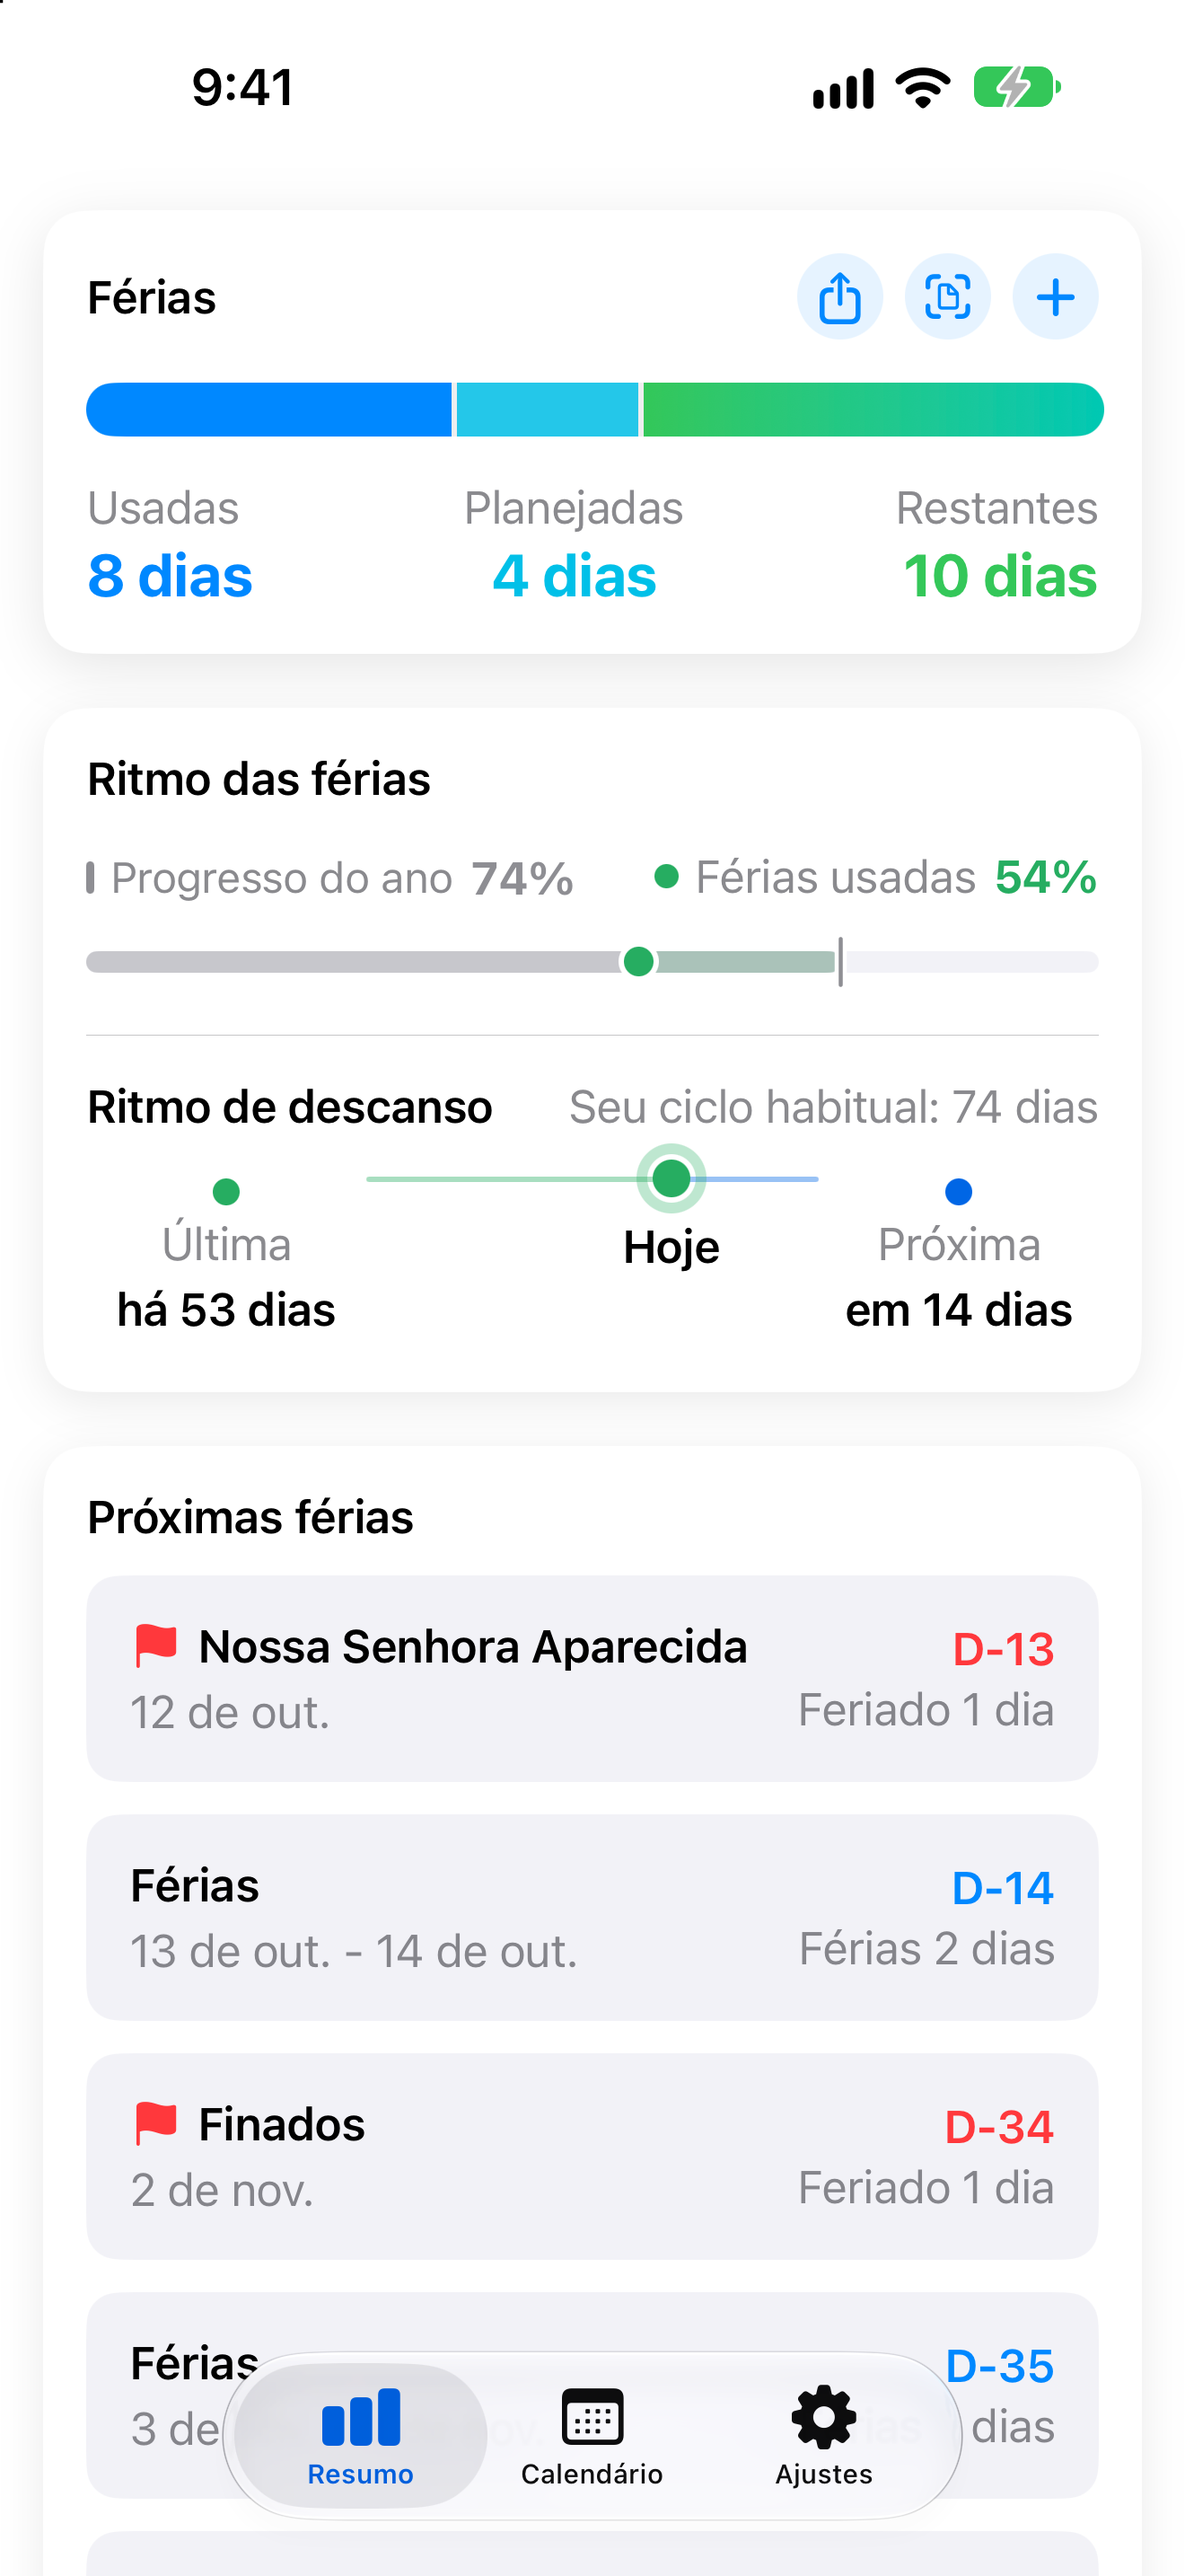
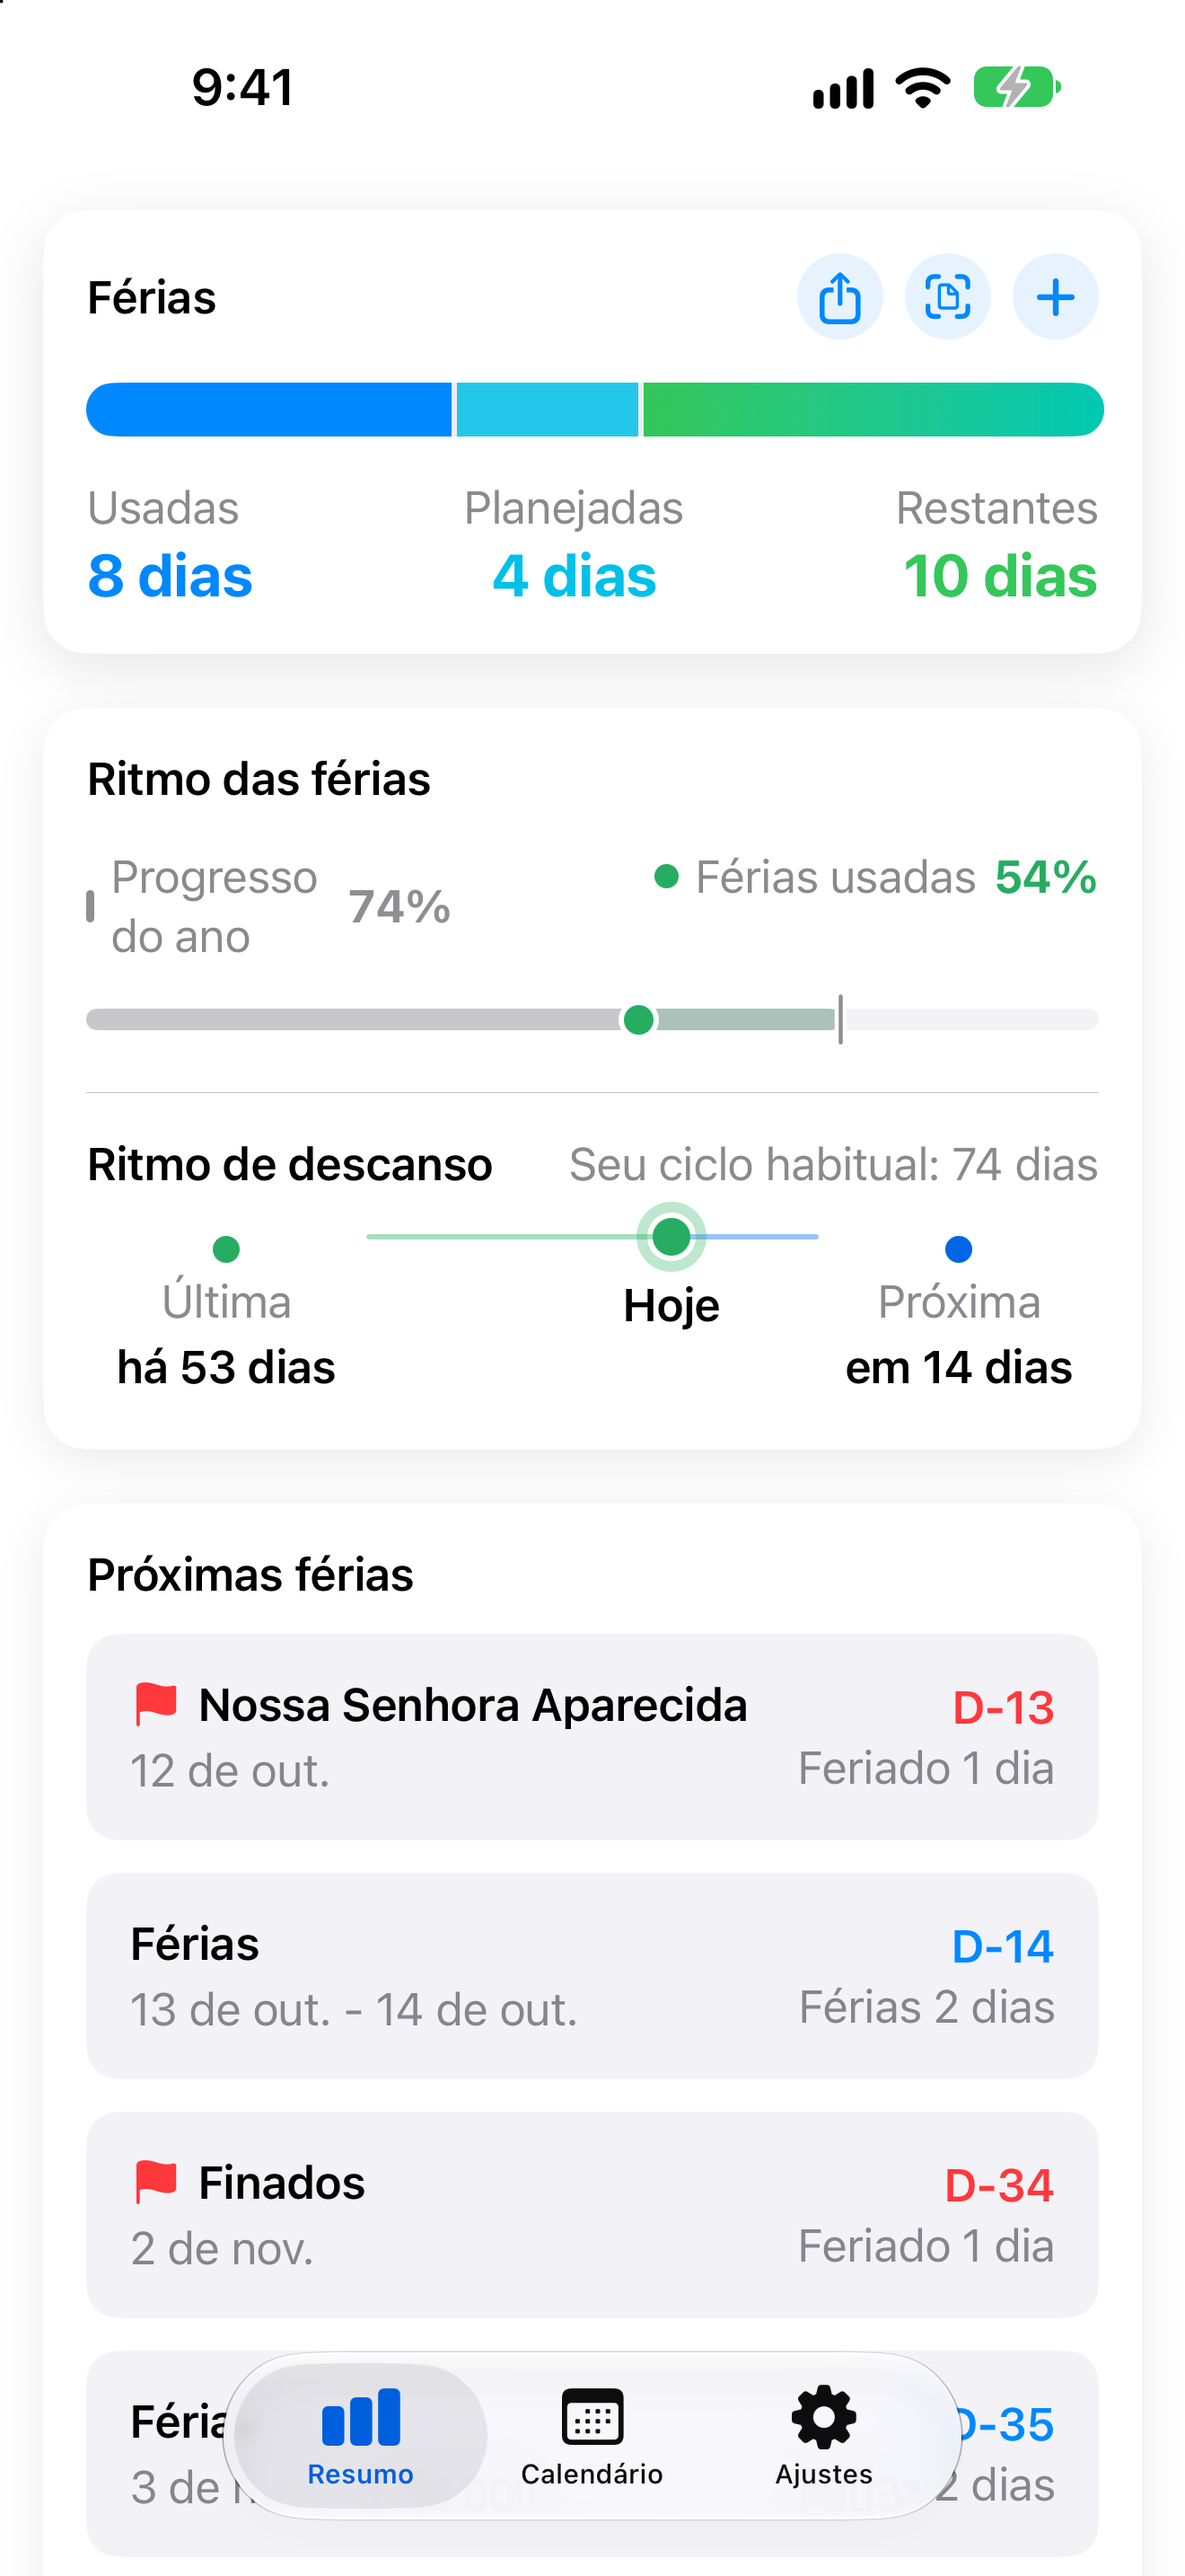
fix: 좁은 칸에서 글이 말줄임표(…)로 잘리지 않고 줄을 바꿔 다 보이게
긴 언어(스페인어·이탈리아어·독일어·프랑스어)에서 "Vacaciones us…"처럼 잘리던 곳.
한 줄 제한(lineLimit(1))·글자 축소를 걷어내고 세로로 늘어나게 했다.
- 홈: 연차 페이스 범례, 오늘 표시, 휴가 메모
- 캘린더·휴가 내역 메모, 추천 날짜·배지·월 그리드, 보너스 사유, 가져오기 후보 제목
스크린샷 10개 언어 다시 촬영.

diff --git a/Goldweek/Views/HomeView.swift b/Goldweek/Views/HomeView.swift
@@ -1104,7 +1104,7 @@ struct ShareableLeavePlanView: View {
                                 Text(leave.note)
                                     .font(.body)
                                     .foregroundStyle(secondaryText)
-                                    .lineLimit(1)
+                                    .fixedSize(horizontal: false, vertical: true)
                             }
                         }
                     }
@@ -1694,7 +1694,7 @@ struct BurnoutPaceCard: View {
     private var paceSection: some View {
         VStack(alignment: .leading, spacing: 10) {
             // 범례 — 라벨/값은 트랙에서 분리해 좌·우로 배치(겹침 방지)
-            HStack(alignment: .firstTextBaseline, spacing: 8) {
+            HStack(alignment: .top, spacing: 8) {
                 paceLegend(label: Strings.paceYearProgressLabel,
                            value: "\(Int(yearProgress * 100))%",
                            color: Color(.systemGray),
@@ -1755,16 +1755,17 @@ struct BurnoutPaceCard: View {
                     .fill(color)
                     .frame(width: 9, height: 9)
             }
+            // 칸이 좁으면 줄을 바꿔서라도 다 보여 준다 (말줄임표로 자르지 않는다)
             Text(label)
                 .font(.body)
                 .foregroundStyle(.secondary)
+                .fixedSize(horizontal: false, vertical: true)
             Text(value)
                 .font(.body.weight(.bold))
                 .foregroundStyle(color)
                 .monospacedDigit()
+                .fixedSize()
         }
-        .lineLimit(1)
-        .minimumScaleFactor(0.7)
     }
 
     /// '지금'을 가리키는 세로선 — 트랙을 가로지르는 재생 헤드 느낌
@@ -1827,8 +1828,8 @@ struct BurnoutPaceCard: View {
             Text(Strings.burnoutToday)
                 .font(.body.weight(.semibold))
                 .foregroundStyle(.primary)
-                .lineLimit(1)
-                .minimumScaleFactor(0.6)
+                .multilineTextAlignment(.center)
+                .fixedSize(horizontal: false, vertical: true)
         }
     }
 
@@ -1912,9 +1913,8 @@ struct BurnoutPaceCard: View {
             Text(value)
                 .font(.body.weight(.semibold))
                 .foregroundStyle(hasData ? .primary : .secondary)
-                .lineLimit(2)
                 .multilineTextAlignment(.center)
-                .minimumScaleFactor(0.8)
+                .fixedSize(horizontal: false, vertical: true)
         }
         .frame(maxWidth: .infinity)
     }

diff --git a/Goldweek/Views/RecommendationsView.swift b/Goldweek/Views/RecommendationsView.swift
@@ -935,8 +935,8 @@ struct MonthPreviewCell: View {
                 .font(.body)
                 .fontWeight(.medium)
                 .foregroundStyle(isPastMonth ? .secondary : .primary)
-                .lineLimit(1)
-                .minimumScaleFactor(0.7)   // 6열 그리드라 칸이 좁다 — 넘칠 때만 줄어든다
+                .multilineTextAlignment(.center)
+                .fixedSize(horizontal: false, vertical: true)   // 6열 그리드라 칸이 좁다 — 넘치면 줄을 바꾼다
 
             ZStack {
                 RoundedRectangle(cornerRadius: 6)
@@ -963,8 +963,8 @@ struct MonthPreviewCell: View {
                 Text(Strings.itemCountUnit(recommendations.count))
                     .font(.body)
                     .foregroundStyle(.blue)
-                    .lineLimit(1)
-                    .minimumScaleFactor(0.7)
+                    .multilineTextAlignment(.center)
+                    .fixedSize(horizontal: false, vertical: true)
             } else {
                 Text(" ")
                     .font(.body)
@@ -1702,7 +1702,7 @@ struct MRTFlightCard: View {
                 Text(dateText)
                     .font(.body)
                     .foregroundStyle(.secondary)
-                    .lineLimit(1)
+                    .fixedSize(horizontal: false, vertical: true)
 
                 // 항공사 + 직항 여부 + 가장 저렴 (이유 라벨)
                 HStack(spacing: 6) {
@@ -2083,8 +2083,7 @@ struct TravelSuggestionCard: View {
                                 .font(.system(size: 9, weight: .bold))
                             Text(Strings.travelReasonLabel(reasonKey))
                                 .font(.body.weight(.semibold))
-                                .lineLimit(1)
-                                .minimumScaleFactor(0.85)
+                                .fixedSize(horizontal: false, vertical: true)
                         }
                         .foregroundStyle(accentColor)
                         .padding(.horizontal, 7)
@@ -2532,8 +2531,7 @@ struct OptimalLeavePlannerCard: View {
             HStack(alignment: .firstTextBaseline, spacing: 8) {
                 Text(dateRange)
                     .font(.body.weight(.bold))
-                    .lineLimit(1)
-                    .minimumScaleFactor(0.8)
+                    .fixedSize(horizontal: false, vertical: true)
                 Spacer(minLength: 0)
                 if brk.efficiency >= 1.5 {
                     HStack(spacing: 2) {

diff --git a/Goldweek/Views/SettingsView.swift b/Goldweek/Views/SettingsView.swift
@@ -1291,7 +1291,7 @@ struct CalendarImportSheet: View {
                                             Text(candidate.title)
                                                 .fontWeight(.medium)
                                                 .foregroundStyle(.primary)
-                                                .lineLimit(1)
+                                                .fixedSize(horizontal: false, vertical: true)
                                             HStack(spacing: 6) {
                                                 // 추론된 휴가 유형 배지
                                                 Text(Strings.leaveTypeName(candidate.suggestedType))

diff --git a/Goldweek/Views/AddLeaveView.swift b/Goldweek/Views/AddLeaveView.swift
@@ -353,7 +353,7 @@ struct LeaveRegistrationView: View {
                                             Text("· \(bonus.reason)")
                                                 .font(.body)
                                                 .foregroundStyle(selectedBonusLeave?.id == bonus.id ? .white.opacity(0.85) : .secondary)
-                                                .lineLimit(1)
+                                                .fixedSize(horizontal: false, vertical: true)
                                         }
                                     }
                                     if let exp = bonus.expirationDate {

diff --git a/Goldweek/Views/PhotoImportSheet.swift b/Goldweek/Views/PhotoImportSheet.swift
@@ -189,7 +189,7 @@ struct PhotoImportSheet: View {
                                     Text(candidate.title)
                                         .fontWeight(.medium)
                                         .foregroundStyle(.primary)
-                                        .lineLimit(1)
+                                        .fixedSize(horizontal: false, vertical: true)
                                     HStack(spacing: 6) {
                                         Text(Strings.leaveTypeName(candidate.suggestedType))
                                             .font(.body.weight(.semibold))

diff --git a/Goldweek/Views/LeaveHistoryView.swift b/Goldweek/Views/LeaveHistoryView.swift
@@ -516,7 +516,7 @@ struct HistoryRecordRow: View {
                     Text(record.note)
                         .font(.body)
                         .foregroundStyle(.secondary)
-                        .lineLimit(1)
+                        .fixedSize(horizontal: false, vertical: true)
                 }
             }
 

diff --git a/Goldweek/Views/CalendarView.swift b/Goldweek/Views/CalendarView.swift
@@ -1208,7 +1208,7 @@ struct LeaveListRow: View {
                     Text(leave.note)
                         .font(.body)
                         .foregroundStyle(.secondary)
-                        .lineLimit(1)
+                        .fixedSize(horizontal: false, vertical: true)
                 }
             }
 
